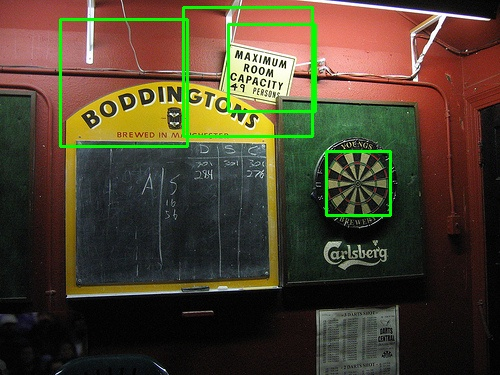
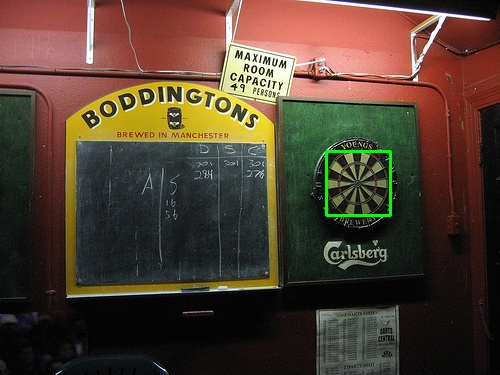
FINALLY GOT THERE - 100/100 TP 0/100FP

Changed region(s): [[0.09, 0.0, 0.66, 0.4107]]

diff --git a/code/dart.cpp b/code/dart.cpp
@@ -43,6 +43,8 @@ void threshold(Mat &input, int Ts);
 
 void threshold2 (Mat &input, int Ts);
 
+void threshold3 (Mat &input, int TsL, int TsH);
+
 void gradMag(Mat &inDx, Mat &inDy, Mat &outMag, double *min, double *max);
 
 void gradDir(Mat &inDx, Mat &inDy, Mat &outDir, double *min, double *max);
@@ -93,7 +95,7 @@ int main(int argc, const char** argv)
  
   Mat grad_mag, grad_mag_uc;
   Mat grad_dir, grad_dir_uc;
-  int threshGradMag = 70;
+  int threshGradMag = 45;
   gradient(frame, grad_mag, grad_mag_uc, grad_dir, grad_dir_uc, threshGradMag);
 
   int minRad = 3;
@@ -102,7 +104,7 @@ int main(int argc, const char** argv)
   Mat h_circ_uc;
   cout << "\nGenerating Hough Circle Transform..." << endl;
   houghCircle(grad_mag_uc, grad_dir, h_circ_uc, minRad, maxRad);
-  threshold2(h_circ_uc, 70);
+  threshold2(h_circ_uc, 60);
   imwrite("houghCircsThresh.png", h_circ_uc);
   
   //Mat h_circ_blur;
@@ -113,7 +115,7 @@ int main(int argc, const char** argv)
   cout << "Generating Hough Line Transform..." << endl;
   //houghLineDA(grad_mag_uc, grad_dir);
   houghLineXY(grad_mag_uc, grad_dir, h_line_uc);
-  threshold2(h_line_uc, 35);
+  threshold3(h_line_uc, 35, 88);
   imwrite("houghLinesThresh.png", h_line_uc);
   
   /*double kernelHP[3][3]= {
@@ -135,7 +137,7 @@ int main(int argc, const char** argv)
   //cout << "Generating Hough Combined Transform..." << endl;
   //houghCombine(h_circ_uc, h_line_uc, h_comb_uc);
 
-  int Ts = 192;
+  int Ts = 158;
   cout << "\nThreshold: " << Ts << "\n" << endl;
   int votes[dartboards.size()];
   weighBoxes(dartboards, votes, h_line_uc, h_circ_uc);
@@ -171,9 +173,7 @@ void filterBoxes(vector<Rect> &dartboards, int votes[], int Ts, Mat &frame,
 /** @function weighBoxes */
 void weighBoxes(vector<Rect> &dartboards, int votes[], Mat &hough_line, Mat &hough_circ)
 {
-  // Draw box around dartboards found
-  //bool isDart = false;
-  //int count = 0;
+  int count = 0;
   int maxCirc = 0;
   Vector <Point> clusterMax;
   int xCMu = 0;
@@ -184,9 +184,9 @@ void weighBoxes(vector<Rect> &dartboards, int votes[], Mat &hough_line, Mat &hou
   int xLMu = -1;
   int yLMu = -1;
   
-  int weightCirc = 2;
-  int weightLine = 1;
-  int weightDist = 3;
+  int weightCirc = 1;
+  int weightLine = 3;
+  int weightDist = 2;
   int weightSum = weightCirc + weightLine + weightDist;
   int xC, yC = -1;
   int xL, yL = -1;
@@ -271,7 +271,6 @@ void weighBoxes(vector<Rect> &dartboards, int votes[], Mat &hough_line, Mat &hou
       
       //reinitialize variables for next iteration through rect vect
       
-
     }
     else
     {
@@ -474,9 +473,11 @@ void houghCircle(Mat &outDyDx_uchar, Mat &outGradDir, Mat &houghVis,
 //Applies and visualises a custom 2D Line Hough Space mapped to the image plane
 /** @function houghLineXY */
 void houghLineXY(Mat &gradMag, Mat &gradDir, Mat &houghVis)
+
 {
   // Initialize parameter space
   Mat hLines = Mat::zeros(gradMag.size(), CV_16U);
+  Mat lastVoteDir = Mat::zeros(gradDir.size(), CV_64F);
 
   cout << "Hough Line array initialised." << endl;
 
@@ -484,20 +485,43 @@ void houghLineXY(Mat &gradMag, Mat &gradDir, Mat &houghVis)
   int xD = hLines.cols;
   int max = 0;
   
-  for(int y = 0; y < yD; y++)
+  for(int y = 15; y < yD -15; y++)
   {	
-	  for(int x = 0; x < xD; x++)
+	  for(int x = 15; x < xD -15; x++)
 	  {
       if(gradMag.at<uchar>(y,x) == 255)
       {
-        for(int x0 = 0; x0 < xD; x0++)
-        {      
-          double tanGrad = tan(gradDir.at<double>(y,x) - M_PI/2);
-          int y0 =(int)(tanGrad*(x0-x) + y); //make some magic
+        for(int x0 = x-15; x0 < x+15; x0++)
+        { 
+          double Dir1 = gradDir.at<double>(y,x) - M_PI*0.5;        
+          
+          //Derrive y from x for the line equation (using tangens).
+          double tanDir = tan(Dir1);
+          int y0 =(int)(tanDir*(x0-x) + y);
+          
+          //Shift the Zero point on the trigonometric circle from the vertical
+          //to the horizontal axis.
+          double Dir = fmod(Dir1 + 1.5*M_PI, 2*M_PI);
           
           if(y0 > 0 && y0 < yD)
           {
-            hLines.at<ushort>(y0,x0)++;
+            //Reward 10 times more voting points if last voting point's line
+            //angle was at least 4 degrees away from this voting point's line
+            //angle. This exploits let-to-right looping through rows. Angles
+            //constants are in radians in the constraints below.
+            if ( ( (lastVoteDir.at<float>(y0,x0) > Dir + 0.069) 
+                && (lastVoteDir.at<float>(y0,x0) < Dir + 3.072) ) 
+              || ( (lastVoteDir.at<float>(y0,x0) < Dir - 0.069) 
+                && (lastVoteDir.at<float>(y0,x0) > Dir - 3.072) ) )
+            {
+                hLines.at<ushort>(y0,x0) += 40;            
+            }
+            else
+            {
+              hLines.at<ushort>(y0,x0)++;
+            }
+            
+            lastVoteDir.at<float>(y0,x0) = Dir;
             
             if(hLines.at<ushort>(y0,x0) > max)
             {
@@ -832,6 +856,27 @@ void threshold2 (Mat &input, int Ts)
 }
 
 // ----------------------------------------------------------------------------
+/** @function threshold */
+void threshold3 (Mat &input, int TsL, int TsH)
+{
+  for(int y = 0; y < input.rows; y++)
+  {	
+    for(int x = 0; x < input.cols; x++)
+    {
+      if(input.at<uchar>(y,x) < TsL)
+      {
+         input.at<uchar>(y,x) = 0;
+      } 
+      if(input.at<uchar>(y,x) > TsH)
+      {
+         if(input.at<uchar>(y,x) < 215)
+            input.at<uchar>(y,x) += 40;
+      }   
+    }
+  }
+}
+
+// ----------------------------------------------------------------------------
 /** @function gradDir */
 void gradDir(Mat &inDx, Mat &inDy, Mat &outDir, double *min, double *max)
 {
@@ -847,7 +892,7 @@ void gradDir(Mat &inDx, Mat &inDy, Mat &outDir, double *min, double *max)
       double pDx = inDx.at<double>(y,x);
       double pDy = inDy.at<double>(y,x);
 
-      double val = atan2(pDx, pDy) + M_PI/2; //Fi+pi/2 in radians
+      double val = atan2(pDx, pDy) + 1.5*M_PI; //Fi+pi/2 in radians
 
       if(val < *min)
       {
